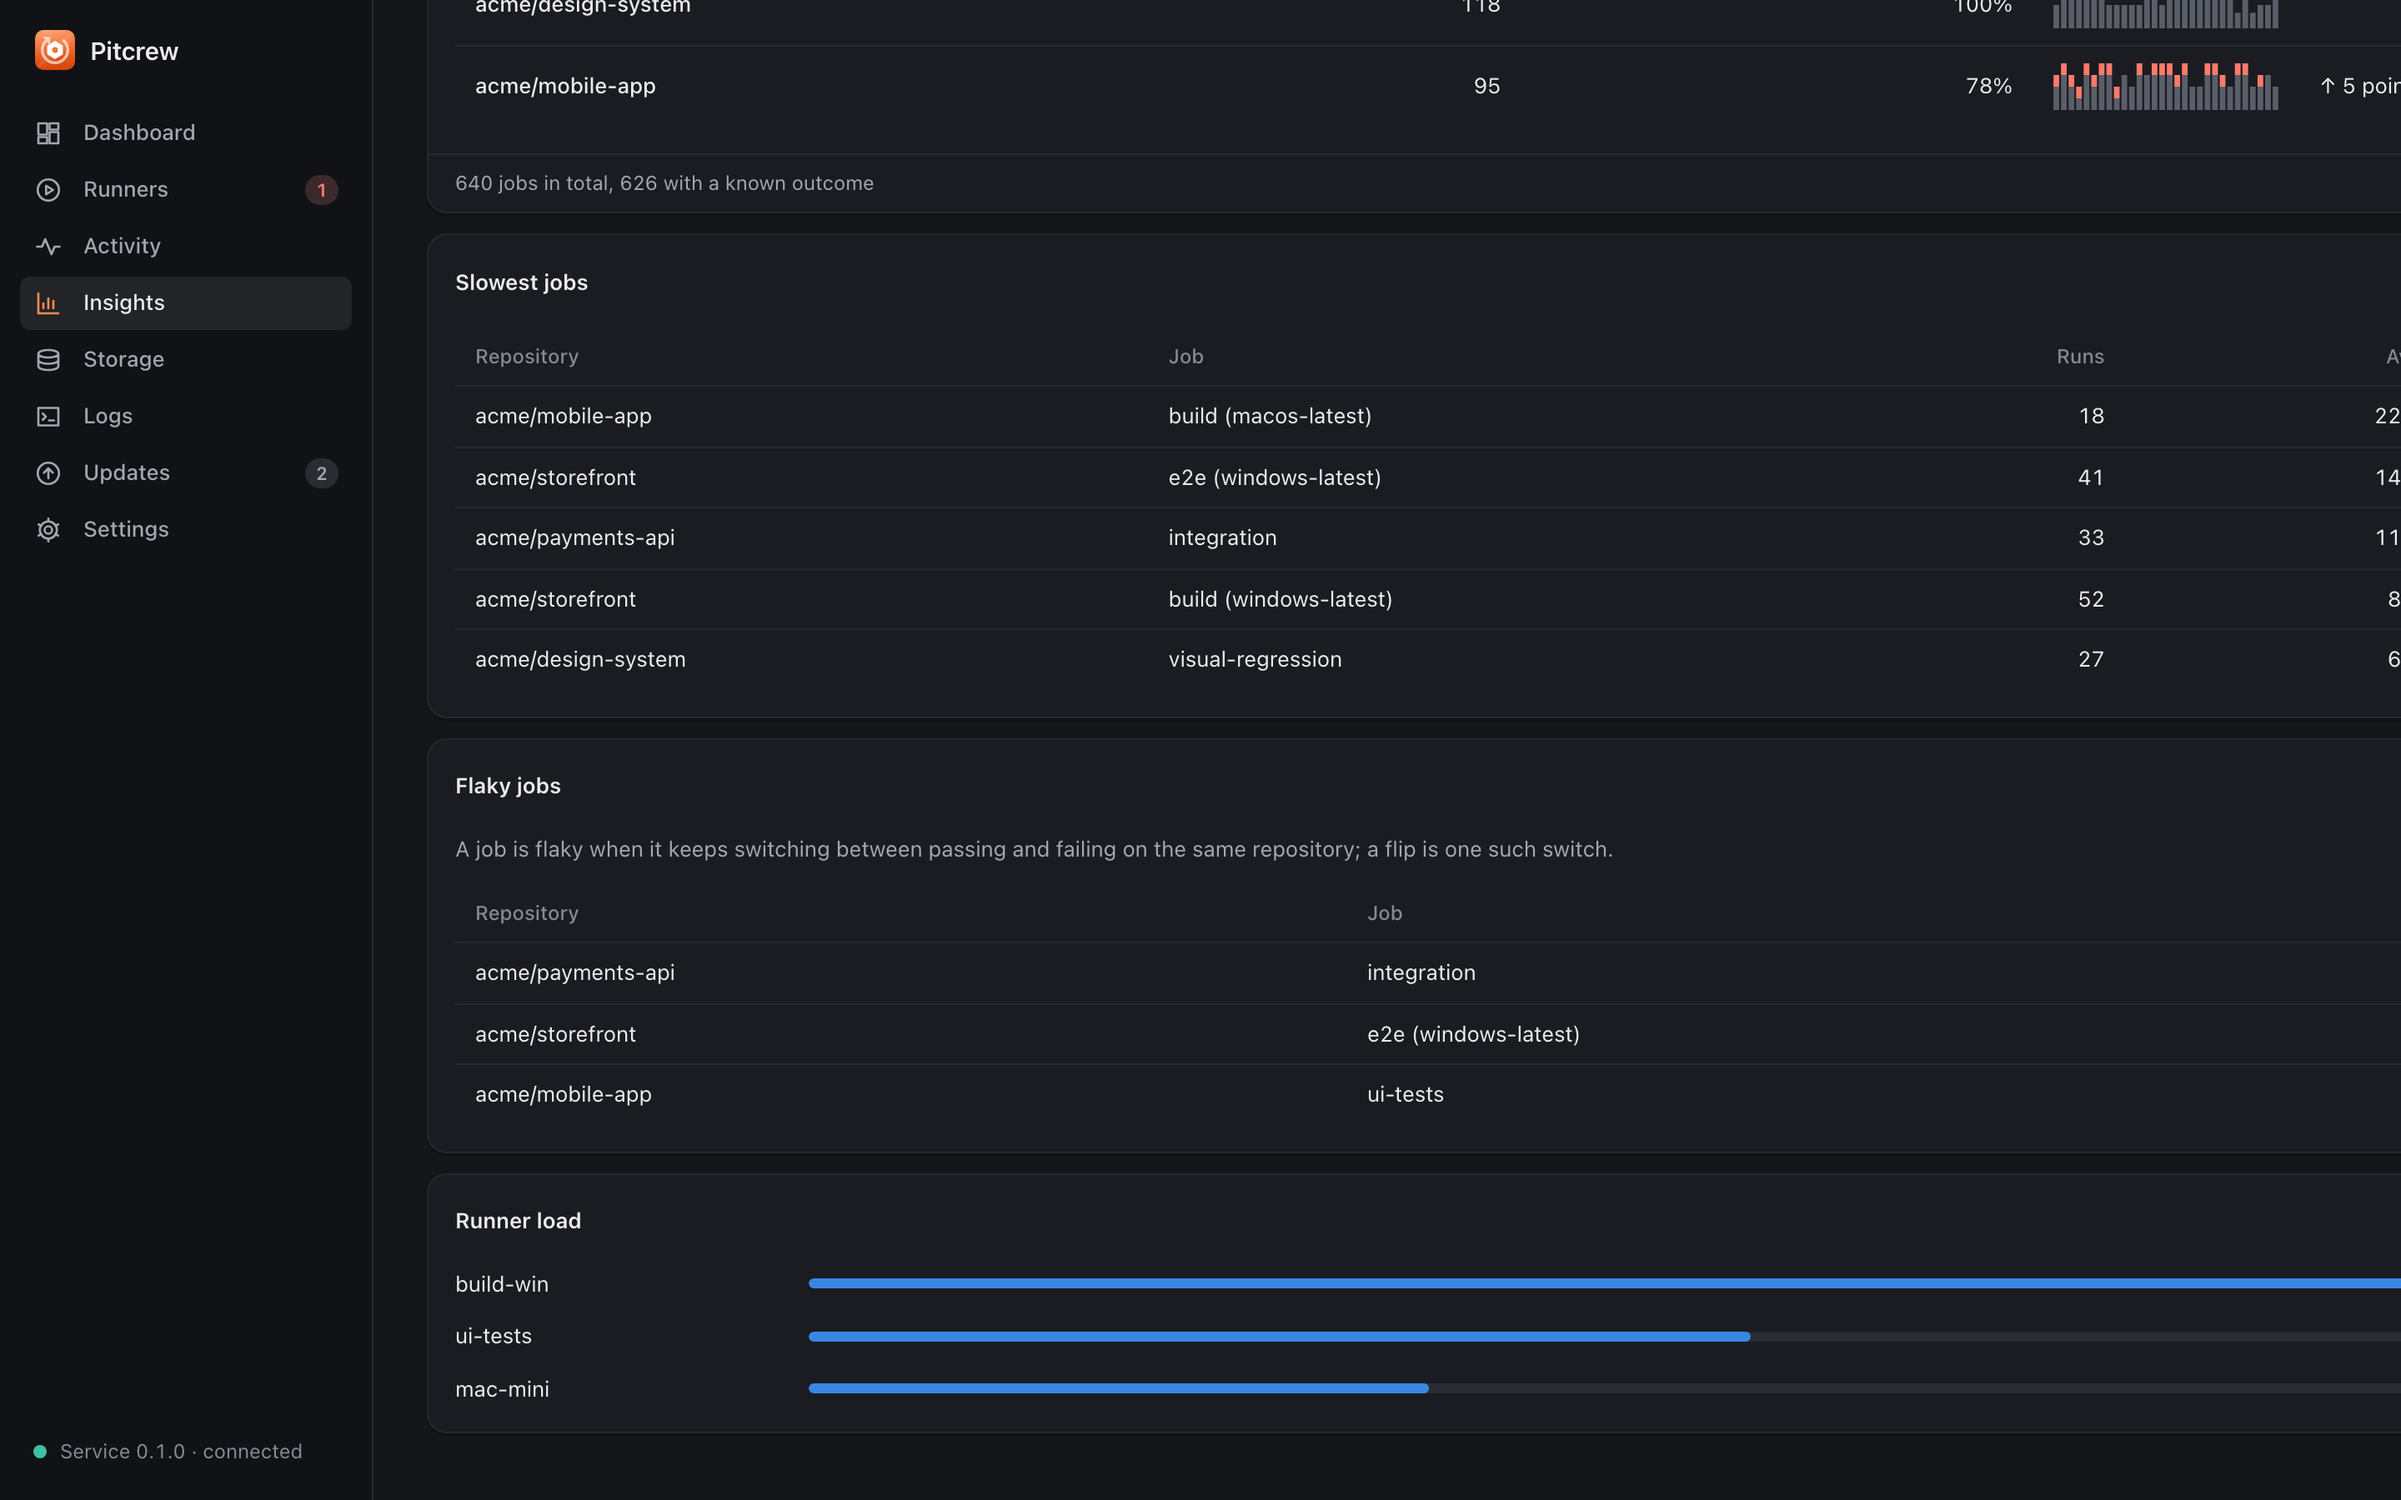
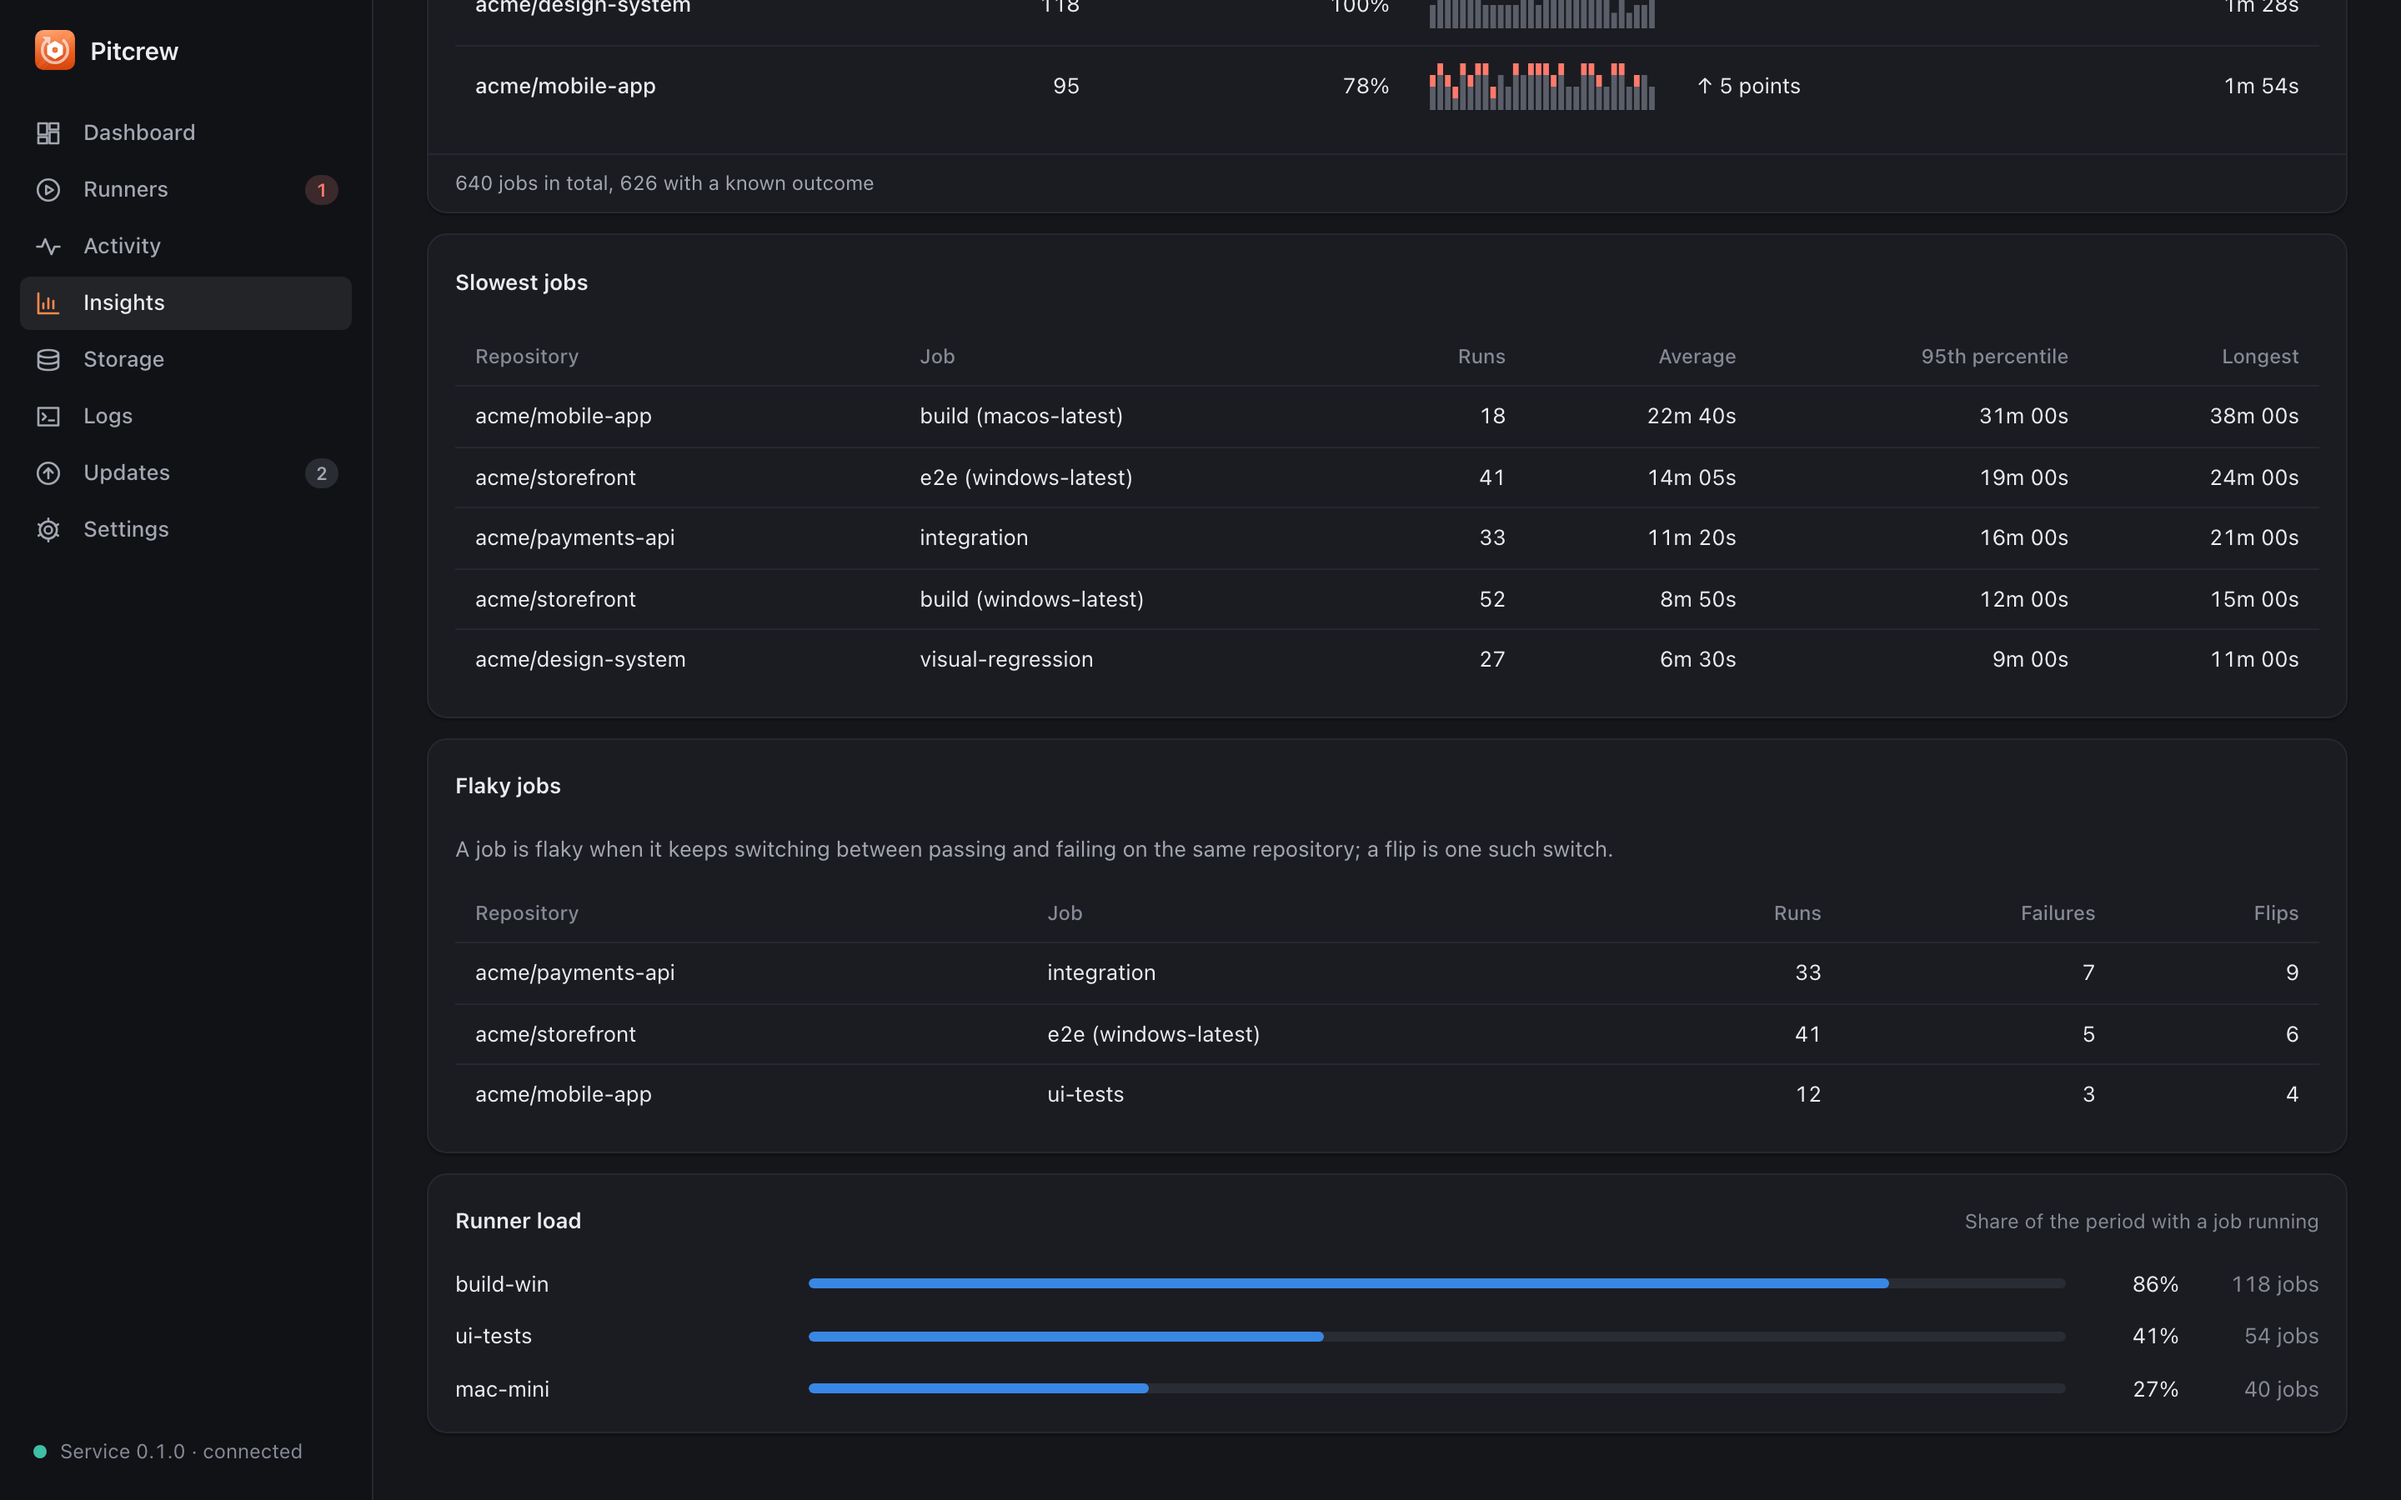
fix(test): hygiene tests use paths that are absolute on every OS; load state keeps wide content inside the page

diff --git a/apps/pitcrew/app/src/app/shared/ui/load-state.ts b/apps/pitcrew/app/src/app/shared/ui/load-state.ts
@@ -37,6 +37,7 @@ import type { CommandError } from '../../core/api.types';
   styles: `
     :host {
       display: grid;
+      grid-template-columns: minmax(0, 1fr);
       gap: var(--space-3);
       min-width: 0;
     }

diff --git a/apps/pitcrew/app/src/app/features/insights/insights-page.scss b/apps/pitcrew/app/src/app/features/insights/insights-page.scss
@@ -3,6 +3,7 @@
 }
 .page {
   display: grid;
+  grid-template-columns: minmax(0, 1fr);
   gap: var(--space-4);
   align-content: start;
 }

diff --git a/apps/pitcrew/crates/pitcrew-core/src/hygiene.rs b/apps/pitcrew/crates/pitcrew-core/src/hygiene.rs
@@ -587,11 +587,18 @@ mod tests {
 
     #[test]
     fn only_specific_folders_may_be_cleaned_as_a_cache() {
-        let home = std::path::Path::new("/Users/me");
-        assert!(safe_cache_dir(std::path::Path::new("/Users/me/.cache/actcache"), Some(home)).is_ok());
-        assert!(safe_cache_dir(std::path::Path::new("relative"), Some(home)).is_err());
-        assert!(safe_cache_dir(std::path::Path::new("/"), Some(home)).is_err());
-        assert!(safe_cache_dir(std::path::Path::new("/Users"), Some(home)).is_err());
-        assert!(safe_cache_dir(std::path::Path::new("/Users/me"), Some(home)).is_err());
+        // Absolute on this OS: a drive on Windows, the root elsewhere.
+        let root = if cfg!(windows) {
+            std::path::PathBuf::from("C:\\")
+        } else {
+            std::path::PathBuf::from("/")
+        };
+        let users = root.join("Users");
+        let home = users.join("me");
+        assert!(safe_cache_dir(&home.join(".cache").join("actcache"), Some(&home)).is_ok());
+        assert!(safe_cache_dir(std::path::Path::new("relative"), Some(&home)).is_err());
+        assert!(safe_cache_dir(&root, Some(&home)).is_err());
+        assert!(safe_cache_dir(&users, Some(&home)).is_err());
+        assert!(safe_cache_dir(&home, Some(&home)).is_err());
     }
 }

diff --git a/apps/pitcrew/crates/pitcrew-service/src/hygiene.rs b/apps/pitcrew/crates/pitcrew-service/src/hygiene.rs
@@ -518,6 +518,8 @@ mod tests {
         let _ = std::fs::remove_dir_all(d);
     }
 
+    // A folder's own time cannot be set through a file handle on Windows; the logic is the same everywhere.
+    #[cfg(unix)]
     #[test]
     fn the_cache_folder_is_reported_planned_and_trimmed_safely() {
         let home = temp("cachehome");
@@ -590,9 +592,9 @@ mod tests {
             ..RunnerSettings::default()
         };
         let (p, def) = cache_dir_of(&s, Path::new("/r"), Some(Path::new("/h"))).unwrap();
-        assert_eq!((p, def), (PathBuf::from("/r/caches"), false));
+        assert_eq!((p, def), (Path::new("/r").join("caches"), false));
         let (p, def) = cache_dir_of(&RunnerSettings::default(), Path::new("/r"), Some(Path::new("/h"))).unwrap();
-        assert_eq!((p, def), (PathBuf::from("/h/.cache/actcache"), true));
+        assert_eq!((p, def), (Path::new("/h").join(".cache").join("actcache"), true));
         assert!(cache_dir_of(&RunnerSettings::default(), Path::new("/r"), None).is_none());
         assert_eq!(size_limit_mb("10GB"), Some(9536));
     }
